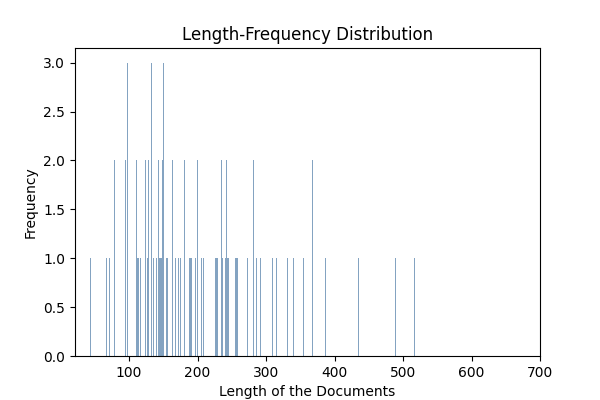
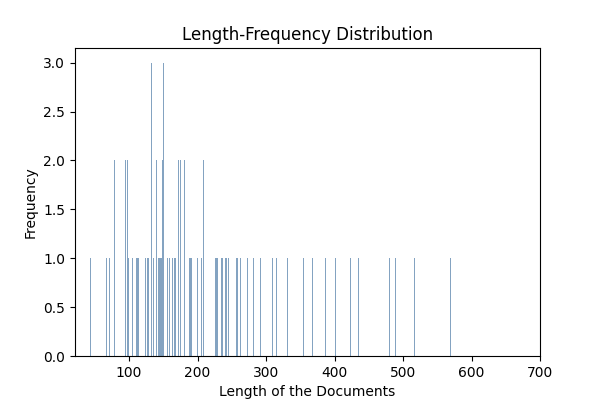
read from csv

Changed region(s): [[0.21, 0.39, 0.33, 0.9], [0.39, 0.66, 0.42, 0.87], [0.36, 0.42, 0.39, 0.63]]

diff --git a/preprocessing/preprocessing.py b/preprocessing/preprocessing.py
@@ -64,21 +64,23 @@ class PreProcessor():
        return data, data_test
 
     def read_collected_data(self):
-        dataset = pd.DataFrame()
+        # dataset = pd.DataFrame()
+        # dataset_dir = f'{BASE_DIR}/DATASET/'
+        # files = os.listdir(dataset_dir)
+        # for file in files:
+        #     if '.json' in file:
+        #         try:
+        #             data_file = dataset_dir + file
+        #             df = pd.read_json(data_file)
+        #             time.sleep(10)
+        #             dataset = dataset.append(df, ignore_index=True)
+        #         except:
+        #             print(f"error during reading {file}")
+        #
+        # dataset.rename(columns={"raw_text": "cleanText"}, inplace=True)
         dataset_dir = f'{BASE_DIR}/DATASET/'
-        files = os.listdir(dataset_dir)
-        for file in files:
-            if '.json' in file:
-                try:
-                    data_file = dataset_dir + file
-                    df = pd.read_json(data_file)
-                    time.sleep(10)
-                    dataset = dataset.append(df, ignore_index=True)
-                except:
-                    print(f"error during reading {file}")
-
-        dataset.rename(columns={"raw_text": "cleanText"}, inplace=True)
-
+        file = f'{dataset_dir}collected_data.csv'
+        dataset = pd.read_csv(file)
         data, data_test = train_test_split(dataset, test_size=.2)
 
         # data, data_test = data.sample(100), data_test.sample(100)
